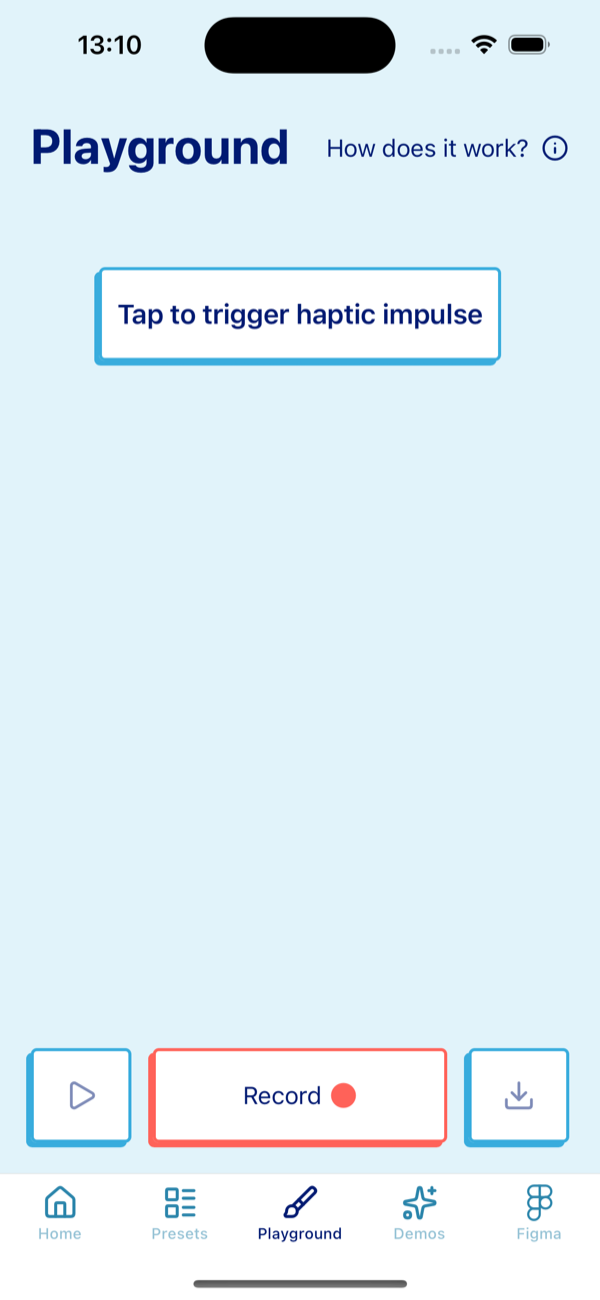
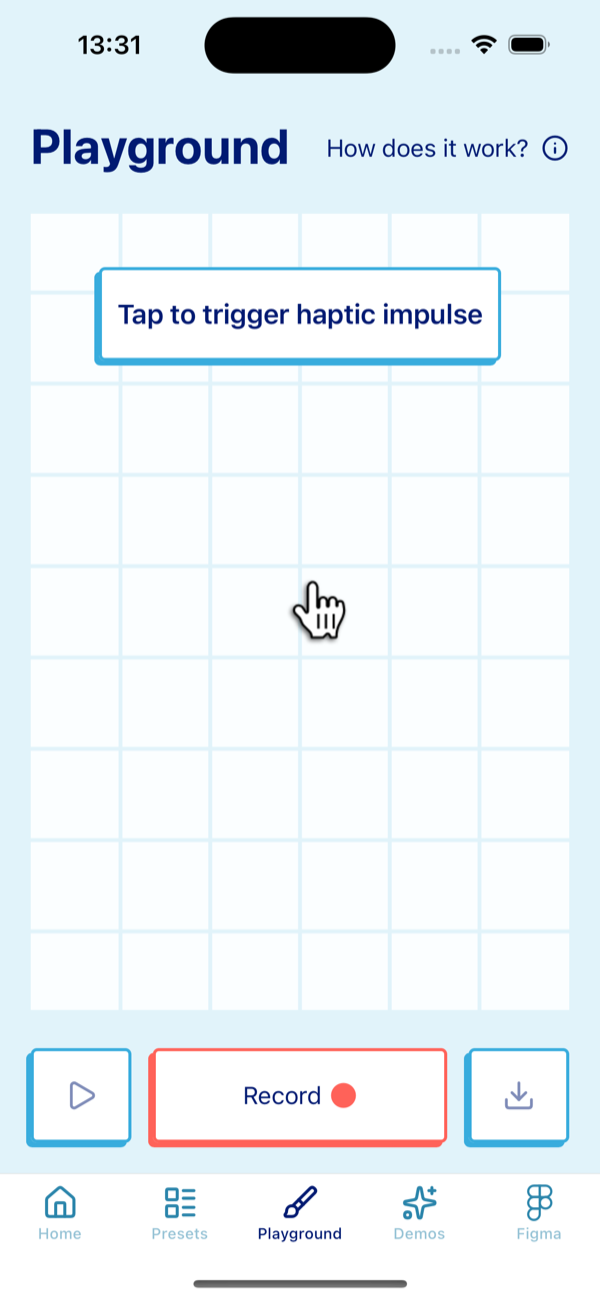
feat(docs): use 4 app-showcase screens with all images loaded
Switch the phone carousel to Home, Presets, Playground, and Demos
(replacing the per-demo Balloon and Countdown screens). All shots are
recaptured with Metro running so previously-empty require()'d images
render: the Home Pulsar logo, the Presets waveform chart, and the
Playground grid background. Demos shows the demo list rather than an
individual demo screen.

diff --git a/docs/src/components/landing/AppShowcase/PhoneCarousel.tsx b/docs/src/components/landing/AppShowcase/PhoneCarousel.tsx
@@ -1,17 +1,15 @@
 import { useEffect, useState } from 'react';
 import styles from './AppShowcase.module.scss';
+import homeScreen from '../../../assets/landing-page/app-screens/screen-home.png';
 import presetsScreen from '../../../assets/landing-page/app-screens/screen-presets.png';
 import playgroundScreen from '../../../assets/landing-page/app-screens/screen-playground.png';
 import demosScreen from '../../../assets/landing-page/app-screens/screen-demos.png';
-import balloonScreen from '../../../assets/landing-page/app-screens/screen-balloon.png';
-import countdownScreen from '../../../assets/landing-page/app-screens/screen-countdown.png';
 
 const screens = [
+  { src: homeScreen.src, alt: 'Pulsar app home screen' },
   { src: presetsScreen.src, alt: 'Pulsar app presets library screen' },
   { src: playgroundScreen.src, alt: 'Pulsar app haptics playground screen' },
   { src: demosScreen.src, alt: 'Pulsar app interactive demos screen' },
-  { src: balloonScreen.src, alt: 'Pulsar app balloon haptics demo screen' },
-  { src: countdownScreen.src, alt: 'Pulsar app countdown timer haptics demo screen' },
 ];
 
 const ROTATION_MS = 3500;